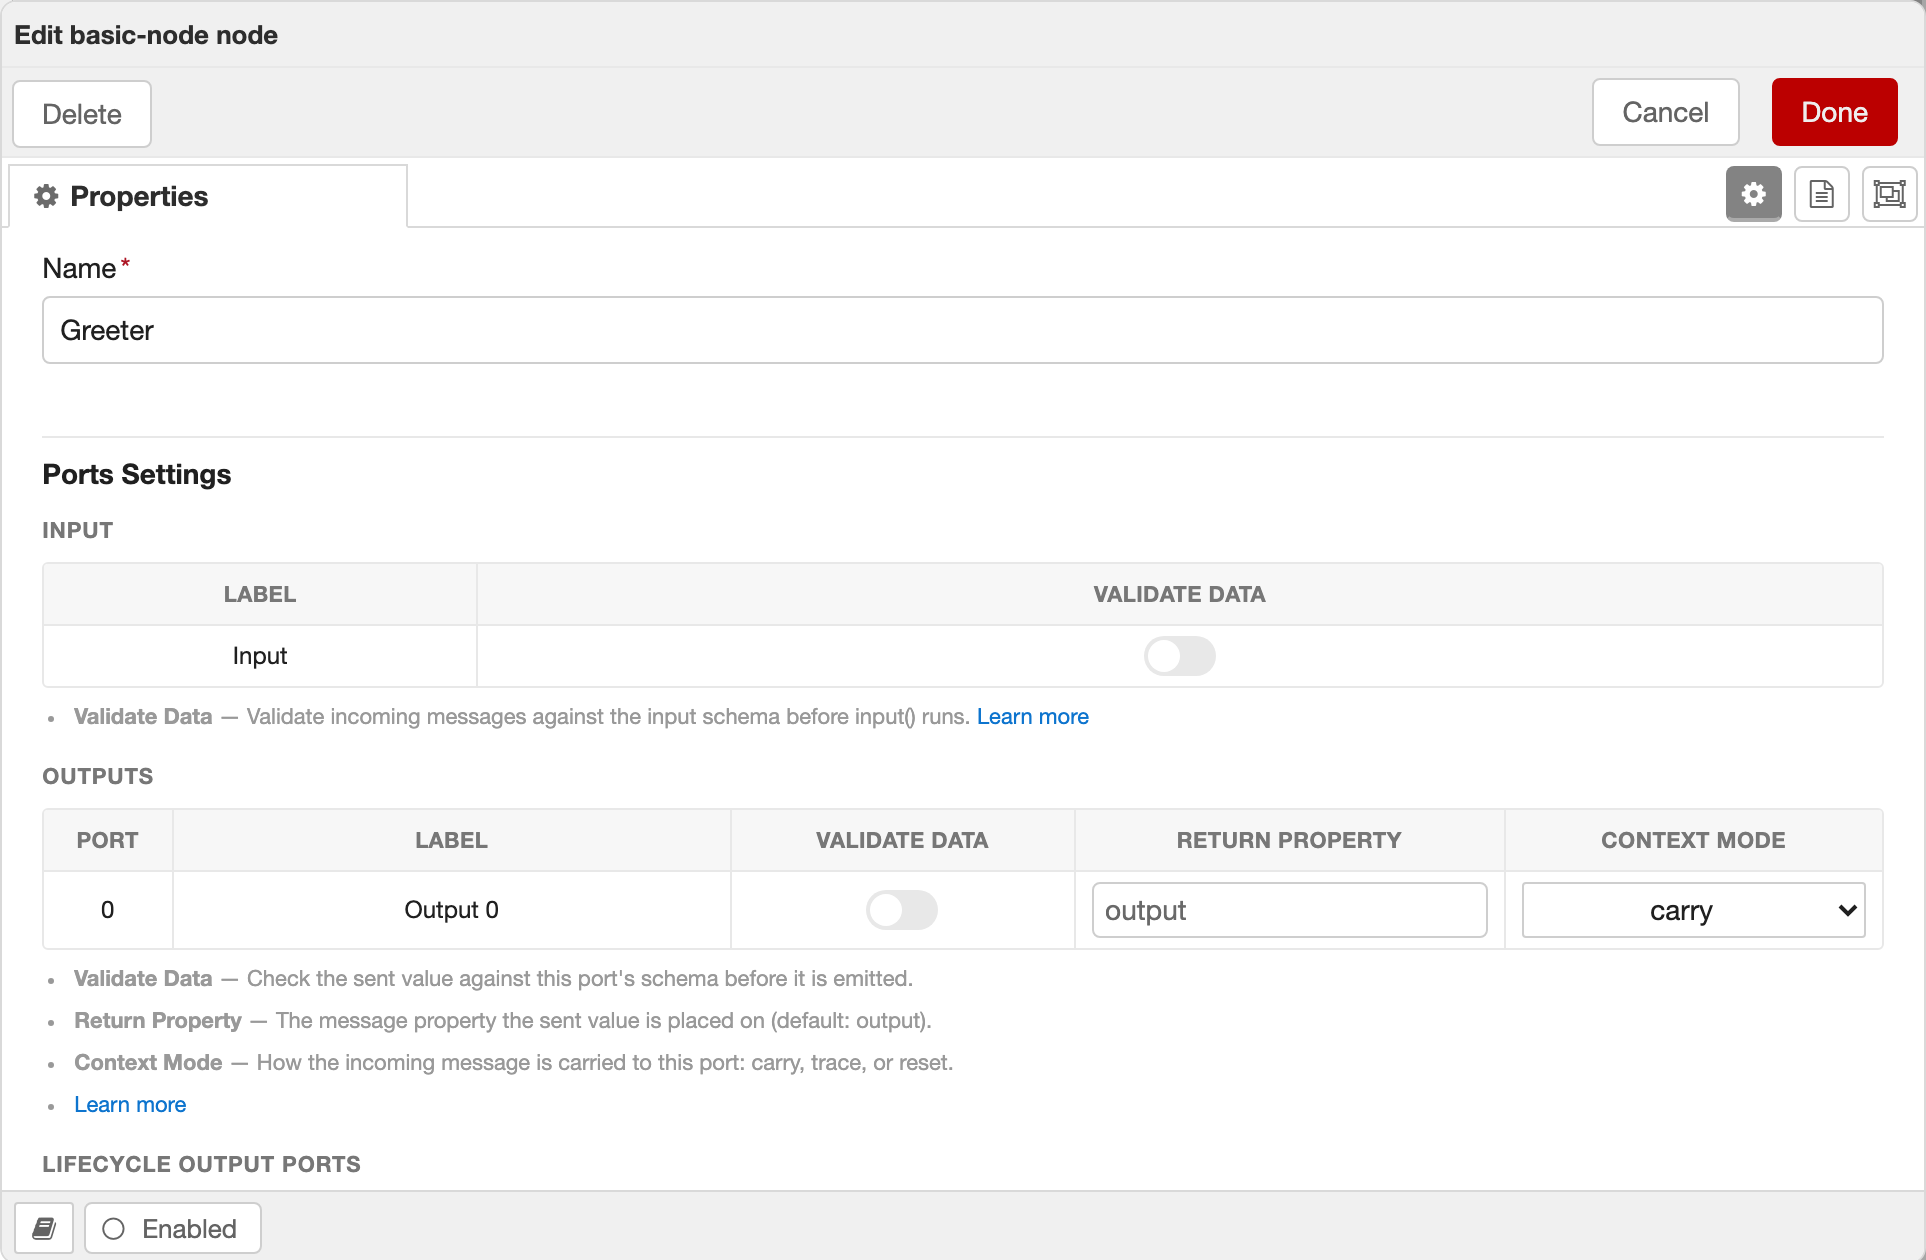
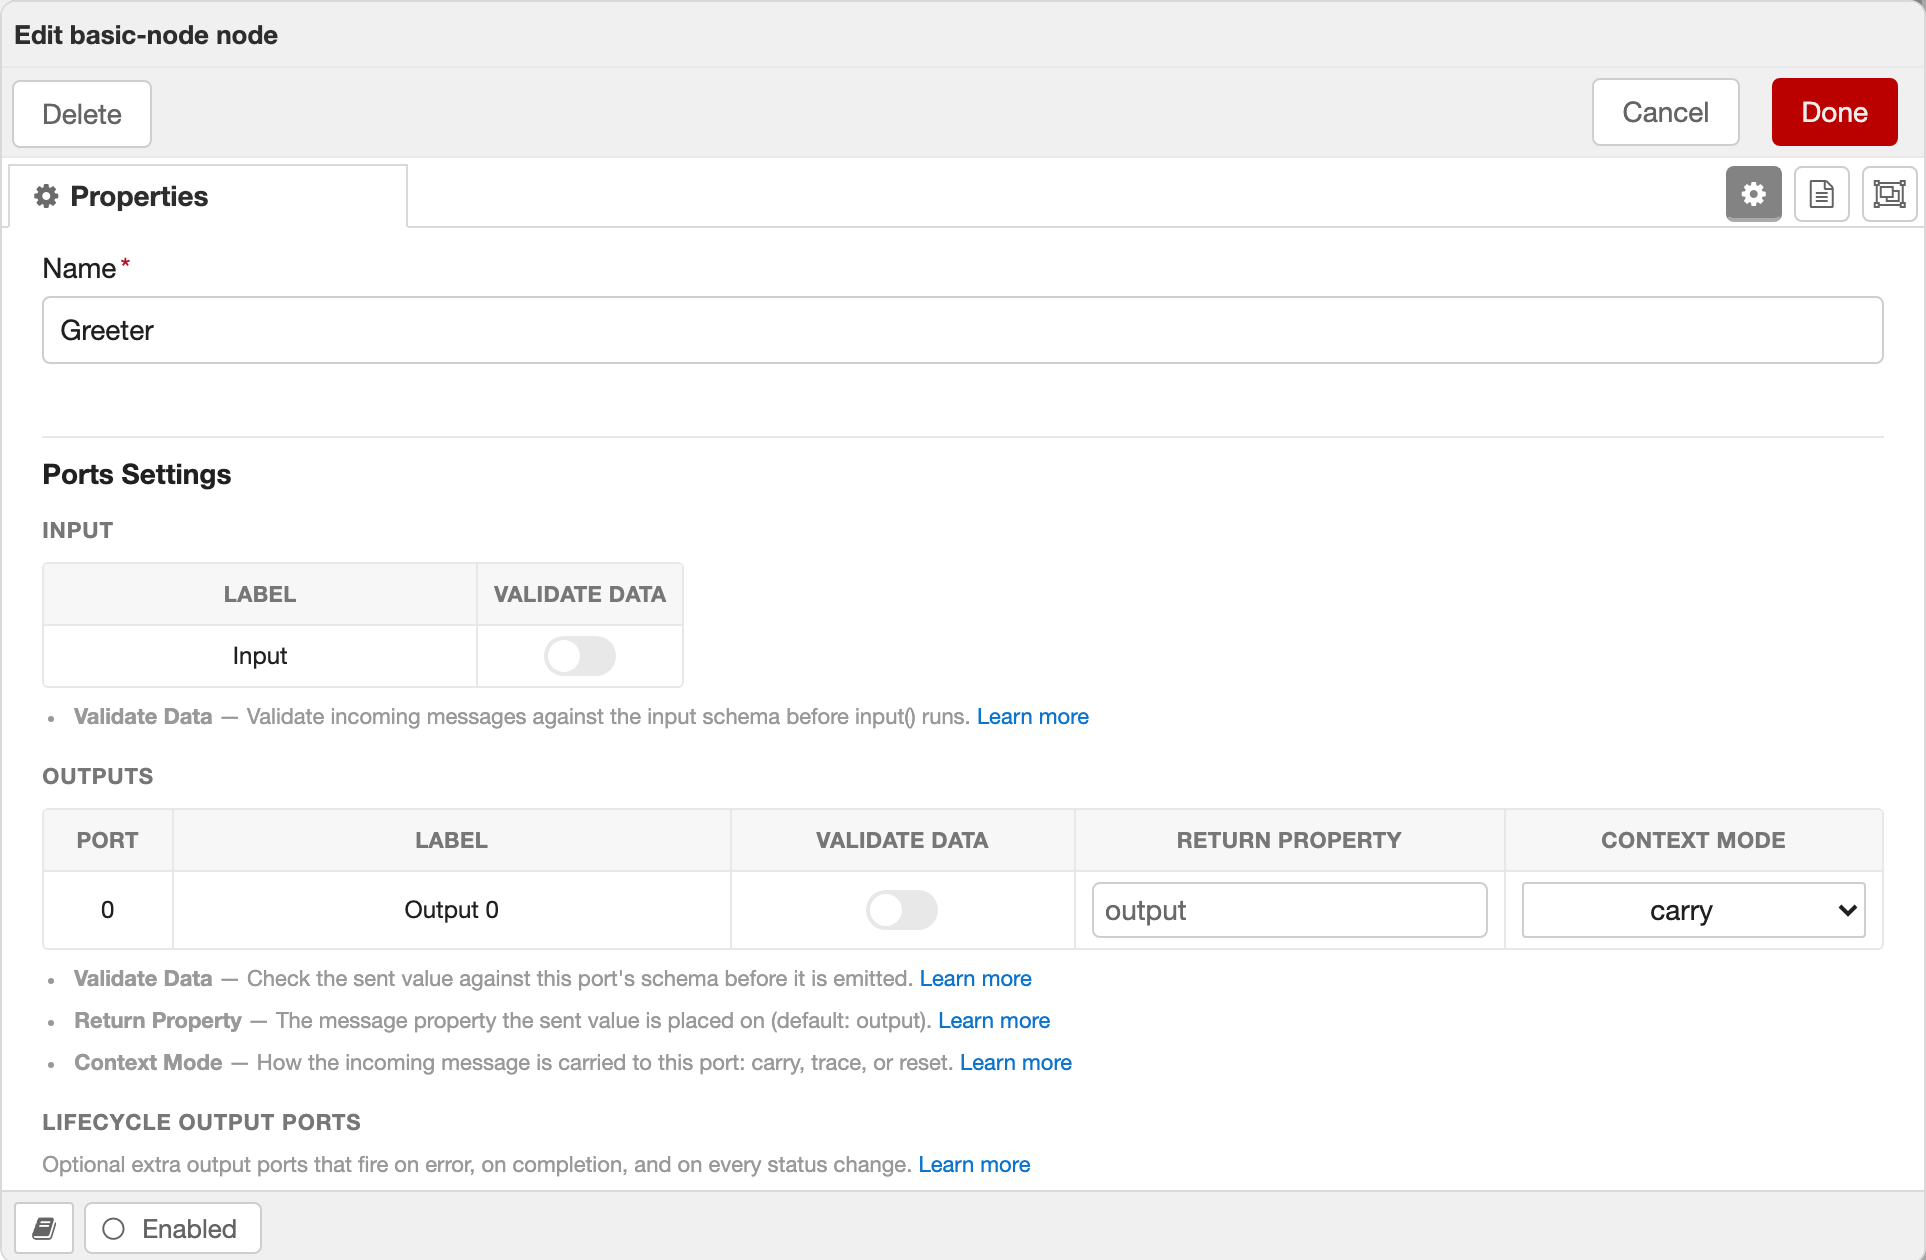
fix: fit the Input table to content, per-bullet Outputs help links
The Input table (just Label + Validate Data) no longer spans the panel like
the wider Outputs table — it sizes to its content. Each Outputs help bullet
(Validate Data / Types, Return Property, Context Mode) now carries its own
"Learn more" link to the relevant docs section, replacing the single trailing
"Learn more" bullet. Regenerate the editor-form docs screenshot to match.

diff --git a/src/sdk/lib/client/form/app.vue b/src/sdk/lib/client/form/app.vue
@@ -226,6 +226,13 @@
                 "Check the sent value against this port's schema before it is emitted.",
               )
             }}
+            <a
+              class="nrg-help-link"
+              :href="docsUrl('/guide/schemas#output-schema')"
+              target="_blank"
+              rel="noopener noreferrer"
+              >{{ resolveLabel("help.learnMore", "Learn more") }}</a
+            >
           </li>
           <li v-if="typeCheckEnabled && supportsOutputTypeValidation">
             <strong>{{
@@ -238,6 +245,13 @@
                 "Type-check wires from this port on deploy (TypeScript).",
               )
             }}
+            <a
+              class="nrg-help-link"
+              :href="docsUrl('/guide/schemas#output-schema')"
+              target="_blank"
+              rel="noopener noreferrer"
+              >{{ resolveLabel("help.learnMore", "Learn more") }}</a
+            >
           </li>
           <li v-if="hasOutputReturnProperties">
             <strong>{{
@@ -250,6 +264,13 @@
                 "The message property the sent value is placed on (default: output).",
               )
             }}
+            <a
+              class="nrg-help-link"
+              :href="docsUrl('/guide/schemas#overriding-the-return-key')"
+              target="_blank"
+              rel="noopener noreferrer"
+              >{{ resolveLabel("help.learnMore", "Learn more") }}</a
+            >
           </li>
           <li v-if="hasOutputContextModes">
             <strong>{{
@@ -262,11 +283,9 @@
                 "How the incoming message is carried to this port: carry, trace, or reset.",
               )
             }}
-          </li>
-          <li>
             <a
               class="nrg-help-link"
-              :href="docsUrl('/guide/creating-a-node#the-editor-form')"
+              :href="docsUrl('/guide/schemas#context-modes')"
               target="_blank"
               rel="noopener noreferrer"
               >{{ resolveLabel("help.learnMore", "Learn more") }}</a
@@ -842,6 +861,13 @@ export default defineComponent({
 .nrg-lifecycle,
 .nrg-input {
   table-layout: auto;
+}
+
+/* The Input table holds just Label + Validate Data (+ Validate Types), so unlike
+   the Outputs table it needn't span the panel — size it to its content. Declared
+   after the shared `width: 100%` so it wins. */
+.nrg-input {
+  width: auto;
 }
 
 .nrg-lifecycle .nrg-outputs-flag,